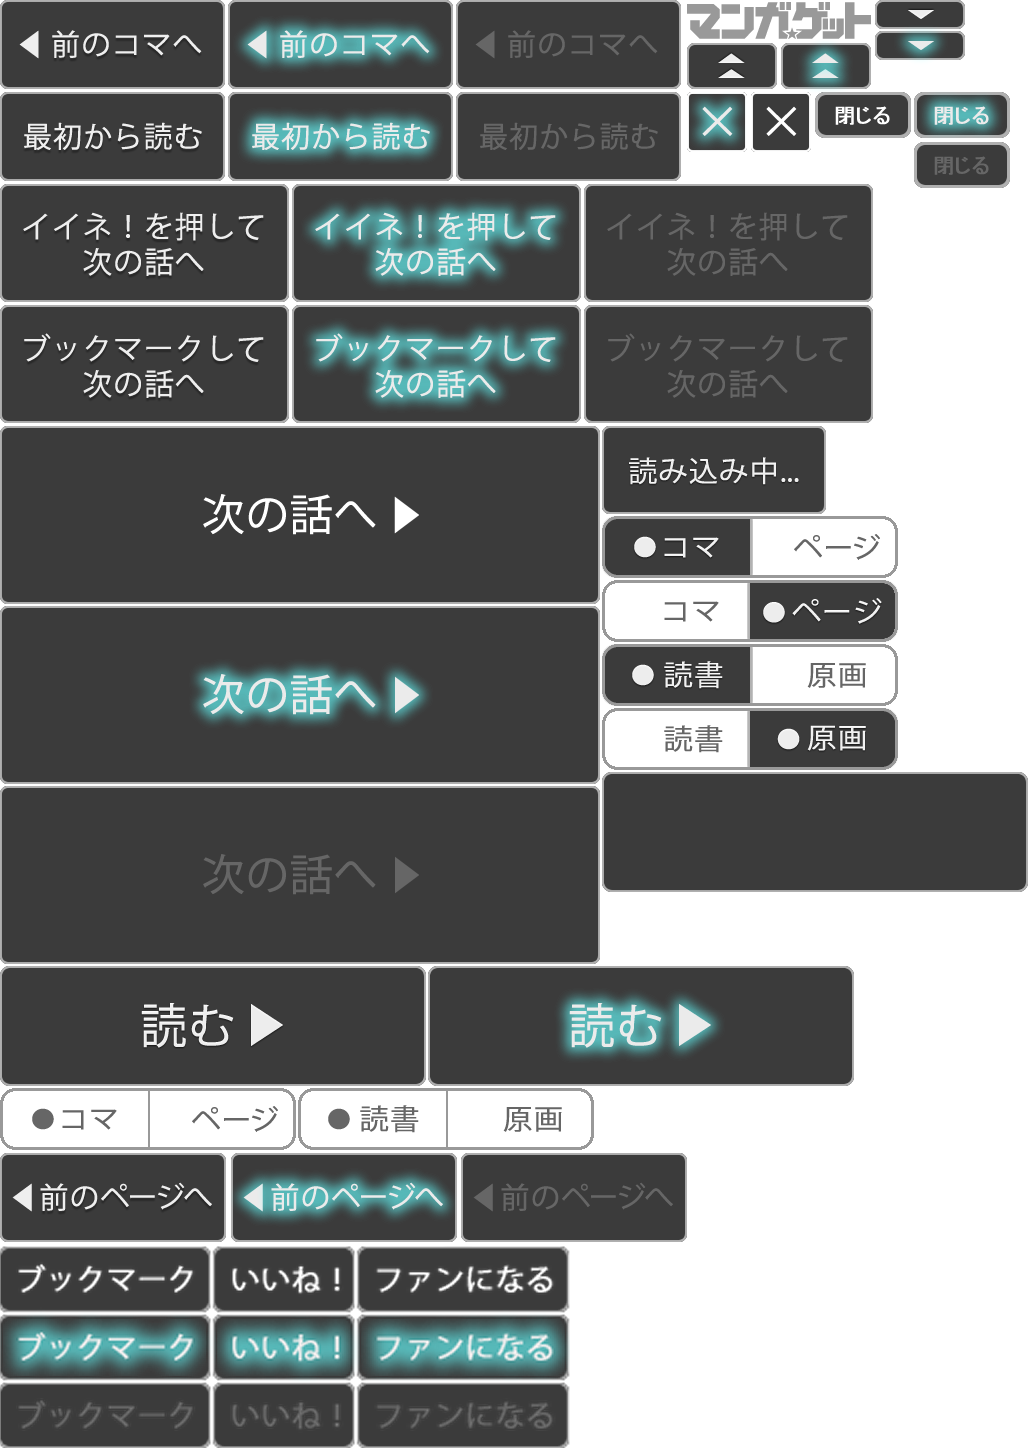
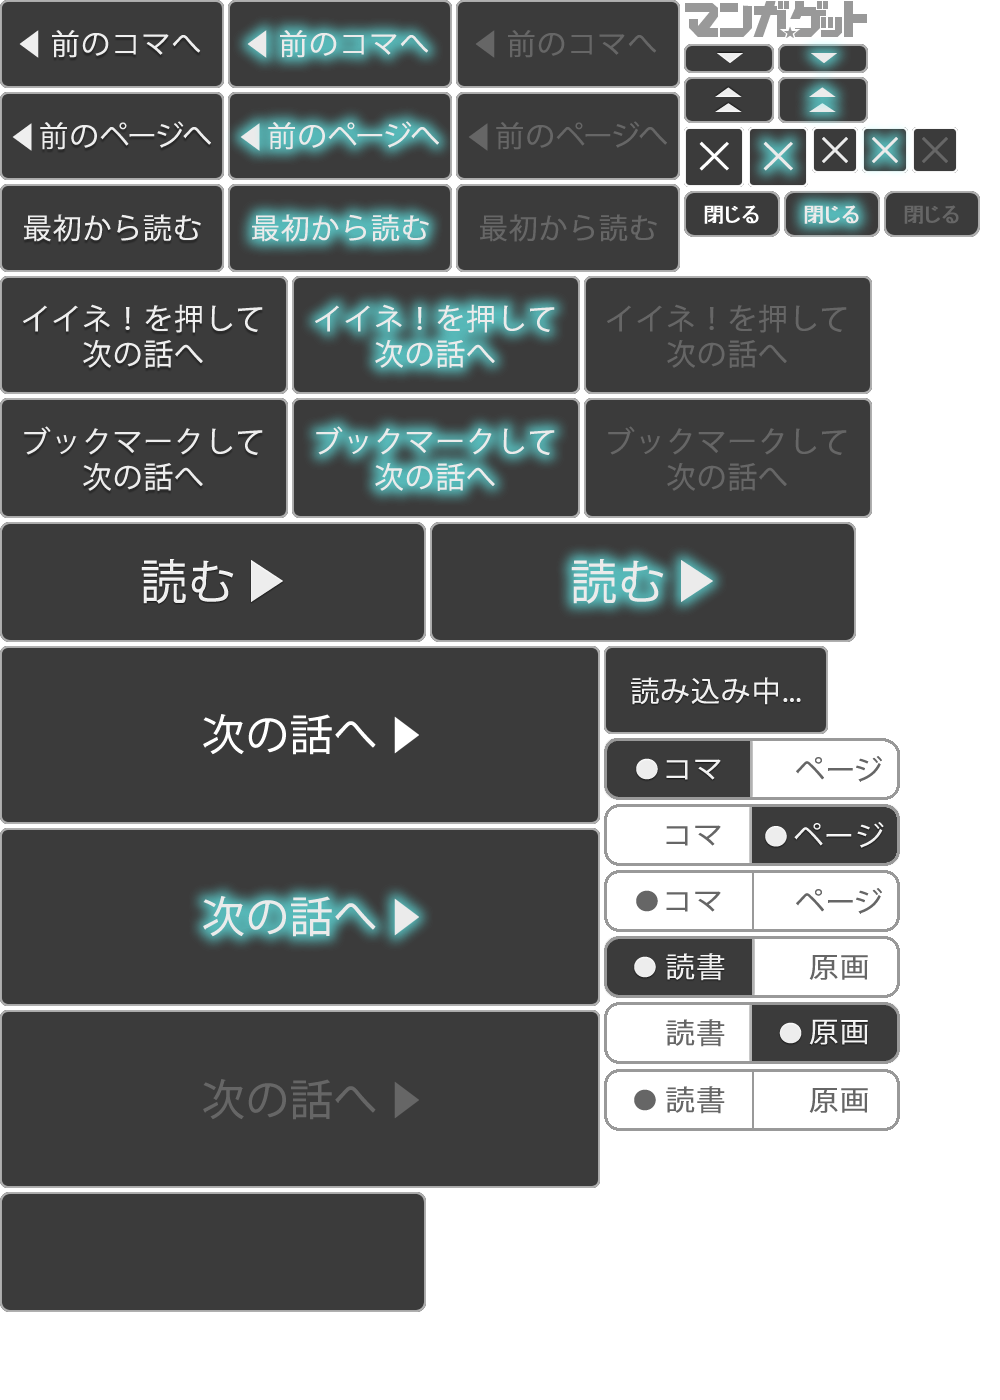
fixed button layout

diff --git a/target/dist-release/ja_pc.html b/target/dist-release/ja_pc.html
@@ -41,7 +41,7 @@ a]);console.log("track:"+a)}}catch(b){}},Ma=function(a){Ca=true;K=a;Ia();Ja();u=
 $("#toggle_reading").bind(H,Ka);$("#toggle_original").bind(H,Za)}if(p.enable_page_mode){U($("#toggle_scene_view"));$("#toggle_scene_view").bind(H,La);$("#toggle_page_view").bind(H,$a)}if(Q=p.comic_title_insert==="1")V=Ua(p.comic_id);if(R=p.story_title_insert==="1"){$("#story_title").text(p.story_title);$("#story_number_num").text(p.story_number);$("#story_title_insert").bind(N,ja)}if(Q||R)D=false;ab();ka();Da=true;$("#prev_scene").bind(H,qa);$("#prev_page").bind(H,qa);$("#first_scene").bind(H,Ya);
 da("cover");if(u.length===0)ra();else{$("#canvas").css({cursor:"pointer"});$("#dialog_loading").hide();$("#reader").show();$("#finish").hide();$("#dialog_error").hide();$("#canvas").unbind(N,ia);$("#canvas").bind(N,ia);_("Loading images");L=w=false;E(0)}f||Ra(K,function(c){console.log(c)})},function(){G()})};this.showPreview=function(a){$("#thumbnail").attr("src","/icon/story_image/"+M+"/"+a+"/"+S);$("#thumbnail").hide();$("#thumbnail").bind("load",function(){$("#thumbnail").width(M);$("#thumbnail").height(M*
 ($("#thumbnail").height()/$("#thumbnail").width()));App.centering($("#thumbnail"));$("#thumbnail").show()});$("#preview_ui").show();$("#preview").show();$("#preview > *").unbind("click");$("#preview > *").click(function(b){Ma(a);$("#preview").hide();aa(b)})};$(document).keydown(function(a){if(a.keyCode===32||a.keyCode===13||a.keyCode===39||a.keyCode===40){console.log("gonext !!!");ja();return false}else if(a.keyCode===8||a.keyCode===37||a.keyCode===38){console.log("goprev !!!");qa();return false}});
-this.openStory=Ma;this.goNext=ja;this.resize=function(){Fa();x=new $SceneAnimator(o,k,P);if(Ca){Ia();Ja();E(i===1?n:q)}else{console.log("start!");$("#thumbnail").click()}};$("#menu").css("top","-132px");$("#menu").show();$("#menu_tab").bind("click",function(a){L=false;ha(500);a.preventDefault()});T($("#toggle_reading"));T($("#toggle_scene_view"))};var App,Reader,_;String.prototype.toInt=function(){var g=parseInt(this,10);return isNaN(g)?0:g};function in_array(g,f){for(var d=0;d<f.length;d++)if(g===f[d])return true;return false}
+this.openStory=Ma;this.goNext=ja;this.resize=function(){Fa();x=new $SceneAnimator(o,k,P);if(Ca){Ia();Ja();E(i===1?n:q)}else{console.log("start!");$("#thumbnail").click()}};$("#menu").css("top","-132px");$("#menu").show();$("#menu_tab_close").bind("click",function(a){L=false;ha(500);a.preventDefault()});T($("#toggle_reading"));T($("#toggle_scene_view"))};var App,Reader,_;String.prototype.toInt=function(){var g=parseInt(this,10);return isNaN(g)?0:g};function in_array(g,f){for(var d=0;d<f.length;d++)if(g===f[d])return true;return false}
 function $App(){this.isApp=this.isAndroid=this.isSmartPhone=this.ANDROID21=this.IE_VER=this.IE=false;this.speed=1;this.constructor=function(){if(typeof window.console!=="object")window.console={log:function(){},debug:function(){},info:function(){},warn:function(){},error:function(){},assert:function(){},dir:function(){},dirxml:function(){},trace:function(){},group:function(){},groupEnd:function(){},time:function(){},timeEnd:function(){},profile:function(){},profileEnd:function(){},count:function(){}};
 if(typeof window.requestAnimationFrame=="undefined"&&typeof window.webkitRequestAnimationFrame=="undefined"&&typeof window.mozRequestAnimationFrame=="undefined"&&typeof window.oRequestAnimationFrame=="undefined"&&typeof window.msRequestAnimationFrame=="undefined")this.speed=2;window.requestAnimationFrame=function(){return window.requestAnimationFrame||window.webkitRequestAnimationFrame||window.mozRequestAnimationFrame||window.oRequestAnimationFrame||window.msRequestAnimationFrame||function(d){window.setTimeout(d,
 33)}}();_=this.getLocalizedString;var g=navigator.userAgent;if(navigator.appName==="Microsoft Internet Explorer"){this.IE=true;console.log(g);var f=g.match(/MSIE ([0-9]{1,}[\.0-9]{0,})/);this.IE_VER=f!==null?parseFloat(f[1]):6}else this.IE=false;if(/Android\s2\.[0|1]/.test(g))this.isAndroid=this.isSmartPhone=this.ANDROID21=true;else if(/Android/.test(g))this.isAndroid=this.isSmartPhone=true;else this.isSmartPhone=/iPhone\sOS/.test(g)?true:false;if(/mang\/\d+/.test(g))this.isApp=true;this.adText=function(){return _ad_text}};
@@ -54,4 +54,4 @@ false&&h<0||l===0};this.isAtScrollStart=function(){return l!==0&&k===false&&h<=0
 function(){if(k)if(!w&&l<=h||w&&h<0)k=false;else{R();var v=false;if(q!==0&&C>=u&&C<=A){C+=w?-q:q;if(C<=u)C=u;else if(C>=A)C=A;else v=true}if(n!==0&&p>=z&&p<=s){p+=w?-n:n;if(p<=z)p=z;else if(p>=s)p=s;else v=true}if(!v){k=false;if(w)h--;else h++}}};this.skipScroll=function(){for(var v=h+1;h<v&&V();)Z()};this.skipBack=function(){k=w=true;for(var v=h-1;v<h&&V();)Z();k=false}};jQuery.cookie=function(g,f,d){if(typeof f!="undefined"){d=d||{};if(f===null){f="";d.expires=-1}var j="";if(d.expires&&(typeof d.expires=="number"||d.expires.toUTCString)){if(typeof d.expires=="number"){j=new Date;j.setTime(j.getTime()+d.expires*864E5)}else j=d.expires;j="; expires="+j.toUTCString()}var B=d.path?"; path="+d.path:"",P=d.domain?"; domain="+d.domain:"";d=d.secure?"; secure":"";document.cookie=[g,"=",encodeURIComponent(f),j,B,P,d].join("")}else{f=null;if(document.cookie&&document.cookie!=
 ""){d=document.cookie.split(";");for(j=0;j<d.length;j++){B=jQuery.trim(d[j]);if(B.substring(0,g.length+1)==g+"="){f=decodeURIComponent(B.substring(g.length+1));break}}}return f}};
 
[2 lines of base64/hex data omitted]

diff --git a/src/main/resources/layout.320.css b/src/main/resources/layout.320.css
@@ -8,8 +8,8 @@
   margin: 4px 6px 4px 6px;
 }
 
-.sprite {background-image: url(ja.320.png?v=6); background-size: 512px 724px; background-repeat: no-repeat; text-indent:-9999px; overflow: hidden; display:block;}
-.sprite2 {background-image: url(ja.320.png?v=6); background-size: 512px 724px; background-repeat: no-repeat; text-indent:-9999px; overflow: hidden; display:block;}
+.sprite {background-image: url(ja.320.png?v=4); background-size: 500px 700px; background-repeat: no-repeat; text-indent:-9999px; overflow: hidden; display:block;}
+.sprite2 {background-image: url(ja.320.png?v=4); background-size: 500px 700px; background-repeat: no-repeat; text-indent:-9999px; overflow: hidden; display:block;}
 
 #vote {
     margin-right: 10px;
@@ -26,56 +26,65 @@
     left:53px;
 }
 
-#next                     {background-position: 0 -213px;width: 300px;height: 89px;cursor: pointer;}
-#next:hover, #next.active {background-position: 0 -303px;width: 300px;height: 89px;cursor: pointer;}
-#next.disable             {background-position: 0 -393px;width: 300px;height: 89px;cursor: default;}
+#next                     {background-position: 0 -323px;width: 300px;height: 89px;cursor: pointer;}
+#next:hover, #next.active {background-position: 0 -414px;width: 300px;height: 89px;cursor: pointer;}
+#next.disable             {background-position: 0 -505px;width: 300px;height: 89px;cursor: default;}
+
+#bookmark                         {background-position: 0 -199px;width: 145px;height: 59px; cursor: pointer;}
+#bookmark:hover, #bookmark.active {background-position: -146px -199px;width: 145px;height: 59px; cursor: pointer;}
+#bookmark.disable                 {background-position: -292px -199px;width: 145px;height: 59px; cursor: default;}
+
+#vote                      {background-position: 0 -138px;width: 144px;height: 59px; cursor: pointer;}
+#vote:hover, #vote.active  {background-position: -146px -138px;width: 144px;height: 59px; cursor: pointer;}
+#vote.disable              {background-position: -292px -138px;width: 144px;height: 59px; cursor: default;}
+
+#prev_scene                           {background-position: 0 0;width: 112px;height: 44px; cursor: pointer;}
+#prev_scene:hover, #prev_scene.active {background-position: -114px 0;width: 112px;height: 44px; cursor: pointer;}
+#prev_scene.disable                   {background-position: -228px 0;width: 112px;height: 44px; cursor: default;}
+
+#prev_page                          {background-position:  0 -46px;    width: 112px;height: 44px; cursor: pointer;}
+#prev_page:hover, #prev_page.active {background-position:  -114px -46px; width: 112px;height: 44px; cursor: pointer;}
+#prev_page.disable                  {background-position: -228px -46px; width: 112px;height: 44px; cursor: default;}
+
+#first_scene                            {background-position: 0 -92px;width: 112px;height: 44px; cursor: pointer;}
+#first_scene:hover, #first_scene.active {background-position: -114px -92px;width: 112px;height: 44px; cursor: pointer;}
+#first_scene.disable                    {background-position: -228px -92px;width: 112px;height: 44px; cursor: default;}
 
 
-#bookmark                         {background-position: 0 -153px;width: 145px;height: 59px; cursor: pointer;}
-#bookmark:hover, #bookmark.active {background-position: -146px -153px;width: 145px;height: 59px; cursor: pointer;}
-#bookmark.disable                 {background-position: -292px -153px;width: 145px;height: 59px; cursor: default;}
+#toggle_reading    {background-position: -302px -468px; width: 148px;height: 31px; cursor:pointer;}
+#toggle_original   {background-position: -302px -368px; width: 148px;height: 31px; cursor:pointer;}
 
-#vote                      {background-position: 0 -92px;width: 145px;height: 59px; cursor: pointer;}
-#vote:hover, #vote.active  {background-position: -146px -92px;width: 145px;height: 59px; cursor: pointer;}
-#vote.disable              {background-position: -292px -92px;width: 145px;height: 59px; cursor: default;}
+#toggle_page_view  {background-position: -302px -402px; width: 148px;height: 31px; cursor:pointer;}
+#toggle_scene_view {background-position: -302px -368px; width: 148px;height: 31px; cursor:pointer;}
 
-#prev_scene                           {background-position: 0 0;width: 113px;height: 45px; cursor: pointer;}
-#prev_scene:hover, #prev_scene.active {background-position: -114px 0;width: 113px;height: 45px; cursor: pointer;}
-#prev_scene.disable                   {background-position: -228px 0;width: 113px;height: 45px; cursor: default;}
+#toggle_scene_view.disable {background-position: -302px -435px; width: 148px;height: 31px; cursor:default;}
+#toggle_reading.disable {background-position: -302px -534px; width: 148px;height: 31px; cursor:default;}
 
-#prev_page                          {background-position:  0px -576px;    width: 113px;height: 45px; cursor: pointer;}
-#prev_page:hover, #prev_page.active {background-position:  -115px -576px; width: 113px;height: 45px; cursor: pointer;}
-#prev_page.disable                  {background-position: -230px -576px; width: 113px;height: 45px; cursor: default;}
+#menu_tab                         {background-position: -342px -22px;width: 45px;height: 15px; cursor:pointer;}
+#menu_tab:hover, #menu_tab.active {background-position: -342px -22px;width: 45px;height: 15px; cursor:pointer;}
 
-#first_scene                            {background-position: 0 -46px;width: 113px;height: 45px; cursor: pointer;}
-#first_scene:hover, #first_scene.active {background-position: -114px -46px;width: 113px;height: 45px; cursor: pointer;}
-#first_scene.disable                    {background-position: -228px -46px;width: 113px;height: 45px; cursor: default;}
+#menu_tab_close                       		  {background-position: -342px -39px;width: 45px;height: 23px; cursor:pointer;}
+#menu_tab_close:hover, #menu_tab_close.active {background-position: -342px -39px;width: 45px;height: 23px; cursor:pointer;}
 
-#toggle_reading         {background-position: -300px -322px; width: 149px;height: 31px; cursor:pointer;}
-#toggle_original   {background-position: -300px -354px; width: 149px;height: 31px; cursor:pointer;}
+#close                      {background-position: -342px -64px;width: 30px;height: 30px; cursor:pointer;}
+#close:hover, #close.active {background-position: -342px -64px;width: 30px;height: 30px; cursor:pointer;}
 
-#toggle_page_view  {background-position: -300px -290px; width: 149px;height: 31px; cursor:pointer;}
-#toggle_scene_view {background-position: -301px -258px; width: 149px;height: 31px; cursor:pointer;}
 
-#toggle_scene_view.disable {background-position: 0px -544px; width: 148px;height: 31px; cursor:default;}
-#toggle_reading.disable {background-position: -148px -544px; width: 149px;height: 31px; cursor:default;}
+#dialog_error   {background-position: 0 -596px;width: 213px;height: 60px;}
+#dialog_loading {background-position: -302px -323px;width: 112px;height: 44px; cursor:wait;}
+#logo_reader    {background-position: -343px 0;width: 92px;height: 210px;position:absolute; right:12px; top:12px;}
 
-#menu_tab                         {background-position: -390px -22px;width: 45px;height: 23px; cursor:pointer;}
-#menu_tab:hover, #menu_tab.active {background-position: -343px -22px;width: 45px;height: 23px; cursor:pointer;}
+#start                       {background-position: 0 -261px;width: 213px; height: 60px; cursor: pointer;}
+#start:hover, #start.active  {background-position: -215px -261x;width: 213px; height: 60px; cursor: pointer;}
 
-#close                      {background-position: -375px -46px;width: 31px;height: 30px; cursor:pointer;}
-#close:hover, #close.active {background-position: -343px -46px;width: 31px;height: 30px; cursor:pointer;}
+#close_ad                       	{background-position: -342px -96px;width: 48px;height: 23px; cursor:pointer;}
+#close_ad:hover, #close_ad.active   {background-position: -392px -96px;width: 48px;height: 23px; cursor:pointer;}
+#close_ad.disable				    {background-position: -442px -96px;width: 48px;height: 23px; cursor:pointer;}		
 
-#dialog_error   {background-position: -301px -386px;width: 213px;height: 60px;}
-#dialog_loading {background-position: -301px -213px;width: 112px;height: 44px; cursor:wait;}
-#logo_reader    {background-position: -343px 0;width: 92px;height: 21px;position:absolute; right:12px; top:12px;}
+#close_ad_top                       		{background-position: -406px -64px;width: 23px;height: 23px; cursor:pointer;}
+#close_ad_top:hover, #close_ad_top.active   {background-position: -431px -64px;width: 23px;height: 23px; cursor:pointer;}
+#close_ad_top.disable				    	{background-position: -456px -64px;width: 23px;height: 23px; cursor:pointer;}		
 
-#start                       {background-position: 0 -483px;width: 214px; height: 60px; cursor: pointer;}
-#start:hover, #start.active  {background-position: -214px -483px;width: 214px; height: 60px; cursor: pointer;}
-
-#close_ad                       	{background-position: -407px -46px;width: 48px;height: 23px; cursor:pointer;}
-#close_ad:hover, #close_ad.active   {background-position: -457px -46px;width: 48px;height: 23px; cursor:pointer;}
-#close_ad.disable				    {background-position: -457px -71px;width: 48px;height: 23px; cursor:pointer;}		
 
 .large_msg_recommend_login {
 	margin: 0px;

diff --git a/src/main/resources/layout.480.css b/src/main/resources/layout.480.css
@@ -8,8 +8,8 @@
   margin: 4px 8px 4px 8px;
 }
 
-.sprite {background-image: url(ja.480.png?v=5); background-repeat: no-repeat; text-indent:-9999px; overflow: hidden; display:block;}
-.sprite2 {background-image: url(ja.480.png?v=5); background-repeat: no-repeat; text-indent:-9999px; overflow: hidden; display:block;}
+.sprite {background-image: url(ja.480.png?v=7); background-repeat: no-repeat; text-indent:-9999px; overflow: hidden; display:block;}
+.sprite2 {background-image: url(ja.480.png?v=7); background-repeat: no-repeat; text-indent:-9999px; overflow: hidden; display:block;}
 #vote {
     margin-right: 15px;
     margin-left: auto;
@@ -55,8 +55,8 @@
 #toggle_scene_view.disable  {background-position:0px -817px; width: 222px;height: 48px; cursor:default;}
 #toggle_reading.disable {background-position: -223px -817px; width: 222px;height: 48px; cursor:default;}
 
-#menu_tab {background-position: -583px -38px;width: 69px;height: 35px; cursor:pointer;}
-#menu_tab:hover, #menu_tab.active {background-position: -513px -38px;width: 69px;height: 35px; cursor:pointer;}
+#menu_tab_close {background-position: -583px -38px;width: 69px;height: 35px; cursor:pointer;}
+#menu_tab_close:hover, #menu_tab_close.active {background-position: -513px -38px;width: 69px;height: 35px; cursor:pointer;}
 
 #close                      {background-position: -560px -74px;width: 46px;height: 46px; cursor: pointer;}
 #close:hover, #close.active {background-position: -513px -74px;width: 46px;height: 46px; cursor: pointer;}
@@ -69,8 +69,10 @@
 #start:hover, #start.active  {background-position: -321px -726px; width: 320px; height: 90px;cursor: pointer;}
 
 #close_ad                  		  {background-position: -607px -74px;width: 74px;height: 36px; cursor: pointer;}
-#close_ad:hover, #close_ad.active {background-position: -683px -74px;width: 74px;height: 36px; cursor: pointer;}
-#close_ad.disable         		  {background-position: -683px -112px;width: 74px;height: 36px; cursor: wait;}
-div.top_button {
-	padding-top:30px  !important;
-}
+#close_ad:hover, #close_ad.active {background-position: -683px -74px;width: 74px;height: 46px; cursor: pointer;}
+#close_ad.disable         		  {background-position: -683px -112px;width: 74px;height: 36px; cursor: pointer;}
+
+
+#close_ad_top							  {background-position: -683px -150px;width: 36px;height: 36px; cursor: pointer;}
+#close_ad_top:hover, #close_ad_top.active {background-position: -683px -188px;width: 36px;height: 36px; cursor: pointer;}
+#close_ad_top.disable         		  	  {background-position: -683px -226px;width: 36px;height: 36px; cursor: pointer;}

diff --git a/src/main/js/ja_pc.html b/src/main/js/ja_pc.html
@@ -18,7 +18,7 @@
       }else{
           var css_size = 480;
       }
-      fileref.setAttribute("href", "layout."+css_size+".css?v=9" );
+      fileref.setAttribute("href", "layout."+css_size+".css?v=10" );
       if(/Android/.test(window.navigator.userAgent)){
           $("html").css("zoom" ,$(window).width()/css_size);
       }
@@ -60,7 +60,7 @@
         <div id="menu_center">
           <span id="progress" ><span id="progress_current">--</span>/<span id="progress_total">--</span></span>
           <span id="menu_tab_wrap">
-            <span id="menu_tab" class="sprite"  ></span>
+            <span id="menu_tab_close" class="sprite"  ></span>
           </span>
         </div>
       </div>

diff --git a/src/main/js/Reader.js b/src/main/js/Reader.js
@@ -1553,7 +1553,7 @@ function $Reader(_member, _superuser, _t, _nomenu, _ad, _fps) {
   var prepareMenu = function(){
     $("#menu").css("top", -1 * 132 + "px");
     $("#menu").show();
-    $("#menu_tab").bind('click', menu_hide_click);
+    $("#menu_tab_close").bind('click', menu_hide_click);
     disable_button($("#toggle_reading"));
     disable_button($("#toggle_scene_view"));
    };

diff --git a/src/main/js/pc.css b/src/main/js/pc.css
@@ -311,7 +311,7 @@ body {
     top:0;
     left:0;
 }
-#menu_tab {
+#menu_tab_close {
     z-index:12;
     position: relative;
     margin:auto;
@@ -319,7 +319,7 @@ body {
 #menu_tab_wrap {
     position:absolute;
     width:100%;
-    bottom: 10%;
+    bottom: 5%;
     left: 0px;
 }
 
